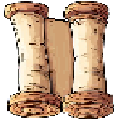
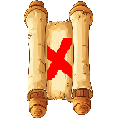
mapa, zavreni a otevreni

diff --git a/main.py b/main.py
@@ -7,6 +7,7 @@ OKNO_vyska = 768
 okno = pygame.display.set_mode((OKNO_sirka, OKNO_vyska))
 fullscreen = False
 hra = True 
+mapa_otevrena = False
 
 
 #Barvy
@@ -21,24 +22,27 @@ aktualni_rychlost_lode = 2
 
 #Obrazky
 mapa_neotevrena_puvodni = pygame.image.load("mapa_puvodni_neotevrena.png")
+mapa_otevrena_puvodni = pygame.image.load("mapa_puvodni_otevrena.png")
+mapa_exit = pygame.image.load("exit_mapa.png")
+
+#recty
+mapa_neotevrena_puvodni_rect = mapa_neotevrena_puvodni.get_rect(topleft=(OKNO_sirka - 150, 30))
+mapa_exit_rect = mapa_exit.get_rect(topleft=(OKNO_sirka - 120, 630))
 
 clock = pygame.time.Clock()
-mys_pozice = pygame.mouse.get_pos()
 
 while hra:
+    mouse_click = False
+
+    mys_pozice = pygame.mouse.get_pos()
     stisknuto = pygame.key.get_pressed()
     for udalost in pygame.event.get():
         if udalost.type == pygame.QUIT:
             pygame.quit()
             sys.exit()
         
-        if udalost.type == pygame.KEYDOWN:
-            if udalost.key == pygame.K_F11:
-                fullscreen = not fullscreen
-                if fullscreen:
-                    okno = pygame.display.set_mode((0, 0), pygame.FULLSCREEN)
-                else:
-                    okno = pygame.display.set_mode((OKNO_sirka, OKNO_vyska))
+        if udalost.type == pygame.MOUSEBUTTONDOWN and udalost.button == 1:
+            mouse_click = True
     
     if stisknuto[pygame.K_w]:
         pozice_lode_y -= aktualni_rychlost_lode
@@ -48,11 +52,36 @@ while hra:
         pozice_lode_x -= aktualni_rychlost_lode
     if stisknuto[pygame.K_d]:
         pozice_lode_x += aktualni_rychlost_lode
+    
+    
+    
+#Cursor
+
+    if mapa_neotevrena_puvodni_rect.collidepoint(mys_pozice) and not mapa_otevrena:
+        pygame.mouse.set_cursor(pygame.SYSTEM_CURSOR_HAND)
+    elif mapa_exit_rect.collidepoint(mys_pozice) and mapa_otevrena:
+        pygame.mouse.set_cursor(pygame.SYSTEM_CURSOR_HAND)
+    else:
+        pygame.mouse.set_cursor(pygame.SYSTEM_CURSOR_ARROW)
+
+#Otevření mapy
+    if mapa_neotevrena_puvodni_rect.collidepoint(mys_pozice) and mouse_click and not mapa_otevrena:
+        mapa_otevrena = True
+
+#zavrení mapy
+    if mapa_exit_rect.collidepoint(mys_pozice) and mouse_click and mapa_otevrena:
+        mapa_otevrena = False
 
     okno.fill((20, 89, 163))
     pygame.draw.rect(okno, cervena, (pozice_lode_x, pozice_lode_y, velikost_lode_x, velikost_lode_y))
-    okno.blit(mapa_neotevrena_puvodni, (OKNO_sirka - 150, 30))
-    #pygame.draw.rect(okno, cervena, (OKNO_sirka - 150, 30, 120, 120))
+    if not mapa_neotevrena_puvodni_rect.collidepoint(mys_pozice) and not mapa_otevrena:
+        okno.blit(mapa_neotevrena_puvodni, (OKNO_sirka - 150, 30))
+    if mapa_neotevrena_puvodni_rect.collidepoint(mys_pozice) and not mapa_otevrena:
+        okno.blit(mapa_otevrena_puvodni, (OKNO_sirka - 150, 30))
+    if mapa_otevrena:
+        pygame.draw.rect(okno, (0, 255, 0), (50, 50, 1180, 668))
+        okno.blit(mapa_exit, (OKNO_sirka - 120, 630))
+
     pygame.display.flip()
     clock.tick(60)
     
